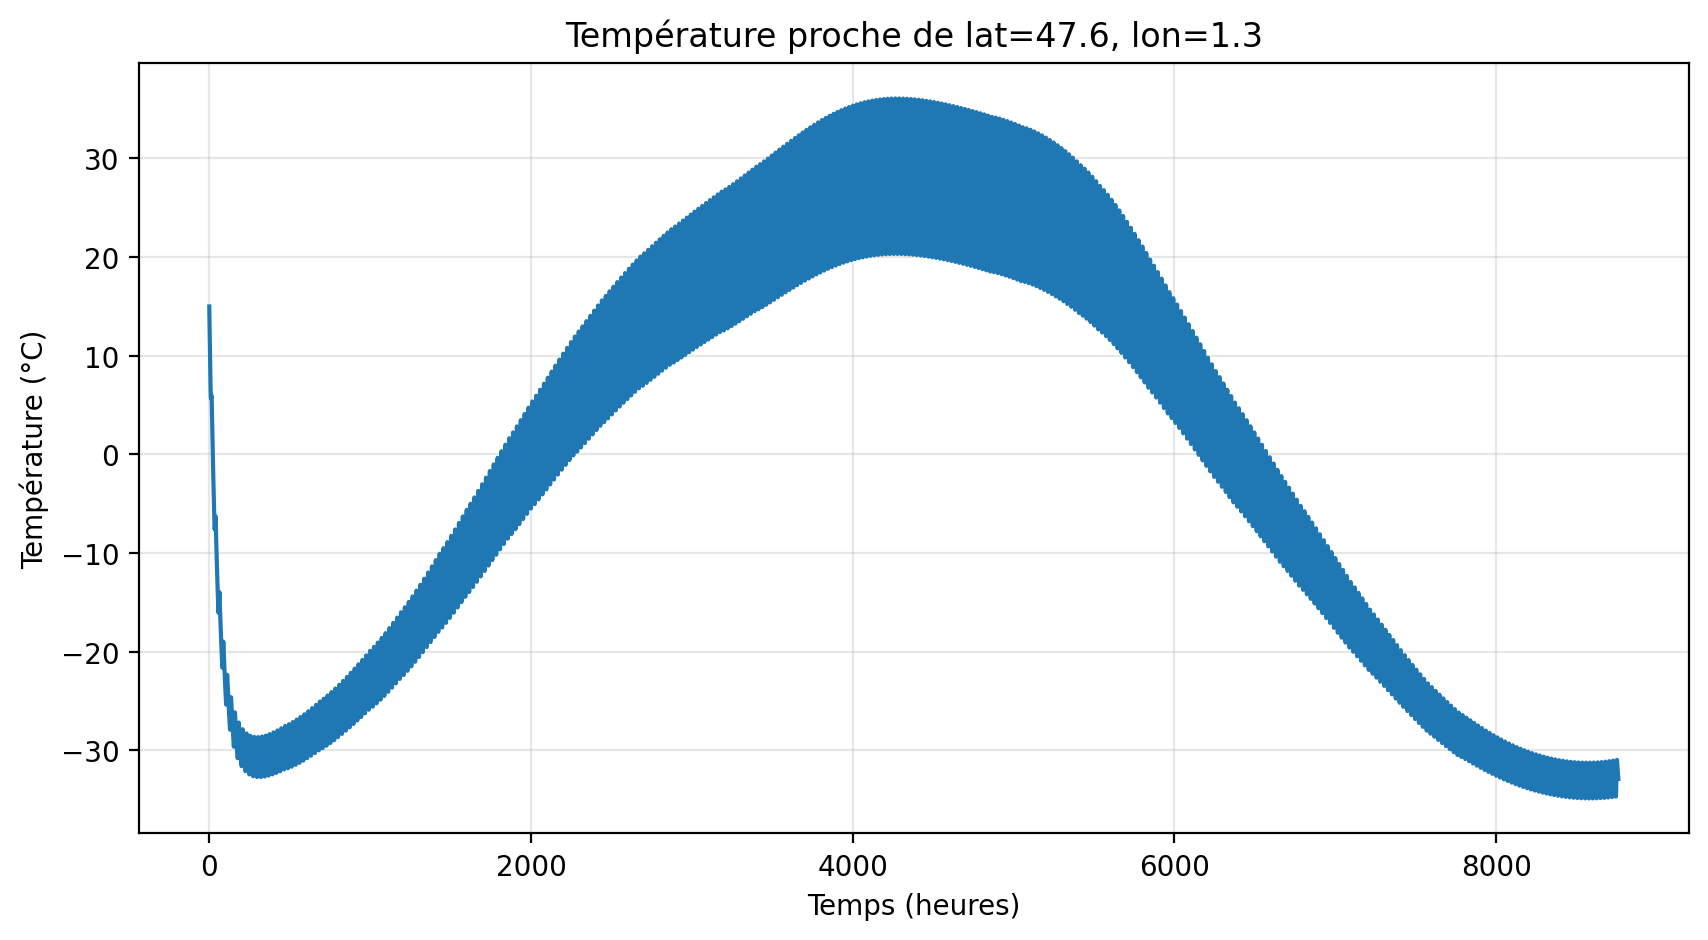
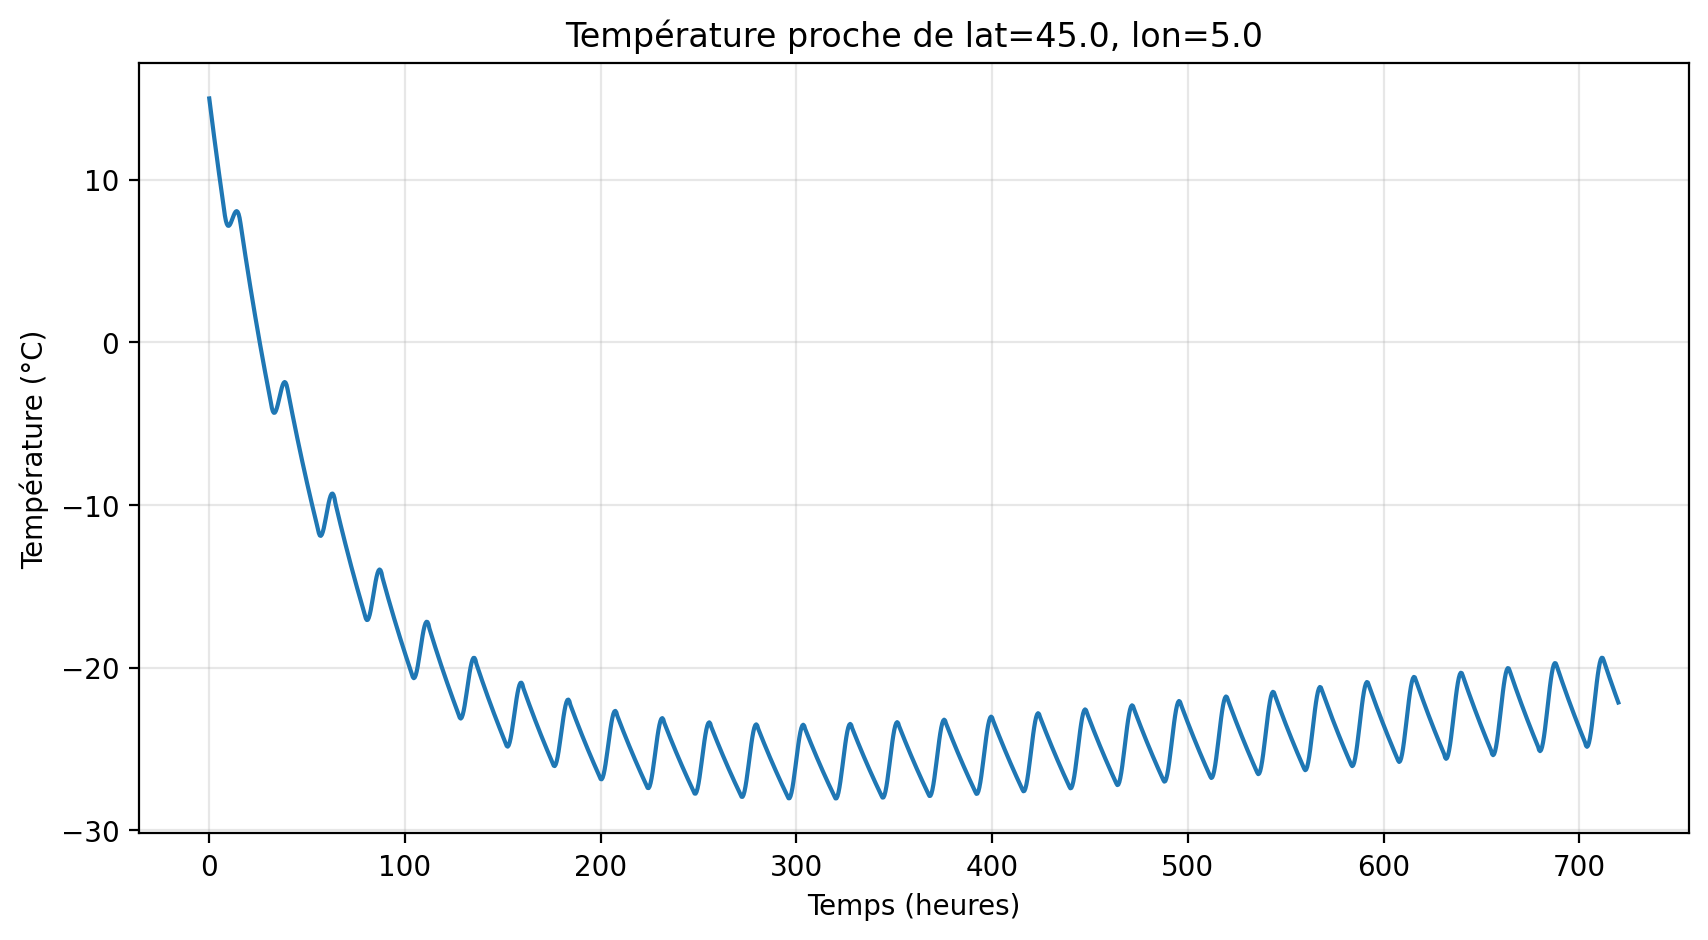
optimisation

diff --git a/Projet CREP 2026/src/config.py b/Projet CREP 2026/src/config.py
@@ -10,11 +10,11 @@ SIMULATIONS_DIR = RESULTS_DIR / "simulations"
 FIGURES_DIR = RESULTS_DIR / "figures"
 
 # Grille sphérique : paramètres
-N_THETA = 18
-N_PHI = 36
+N_THETA = 140
+N_PHI = 280
 
 # Temps
-DAYS = 30       
+DAYS = 365       
 DT = 1800.0   # 30 min 
 
 # Température initiale